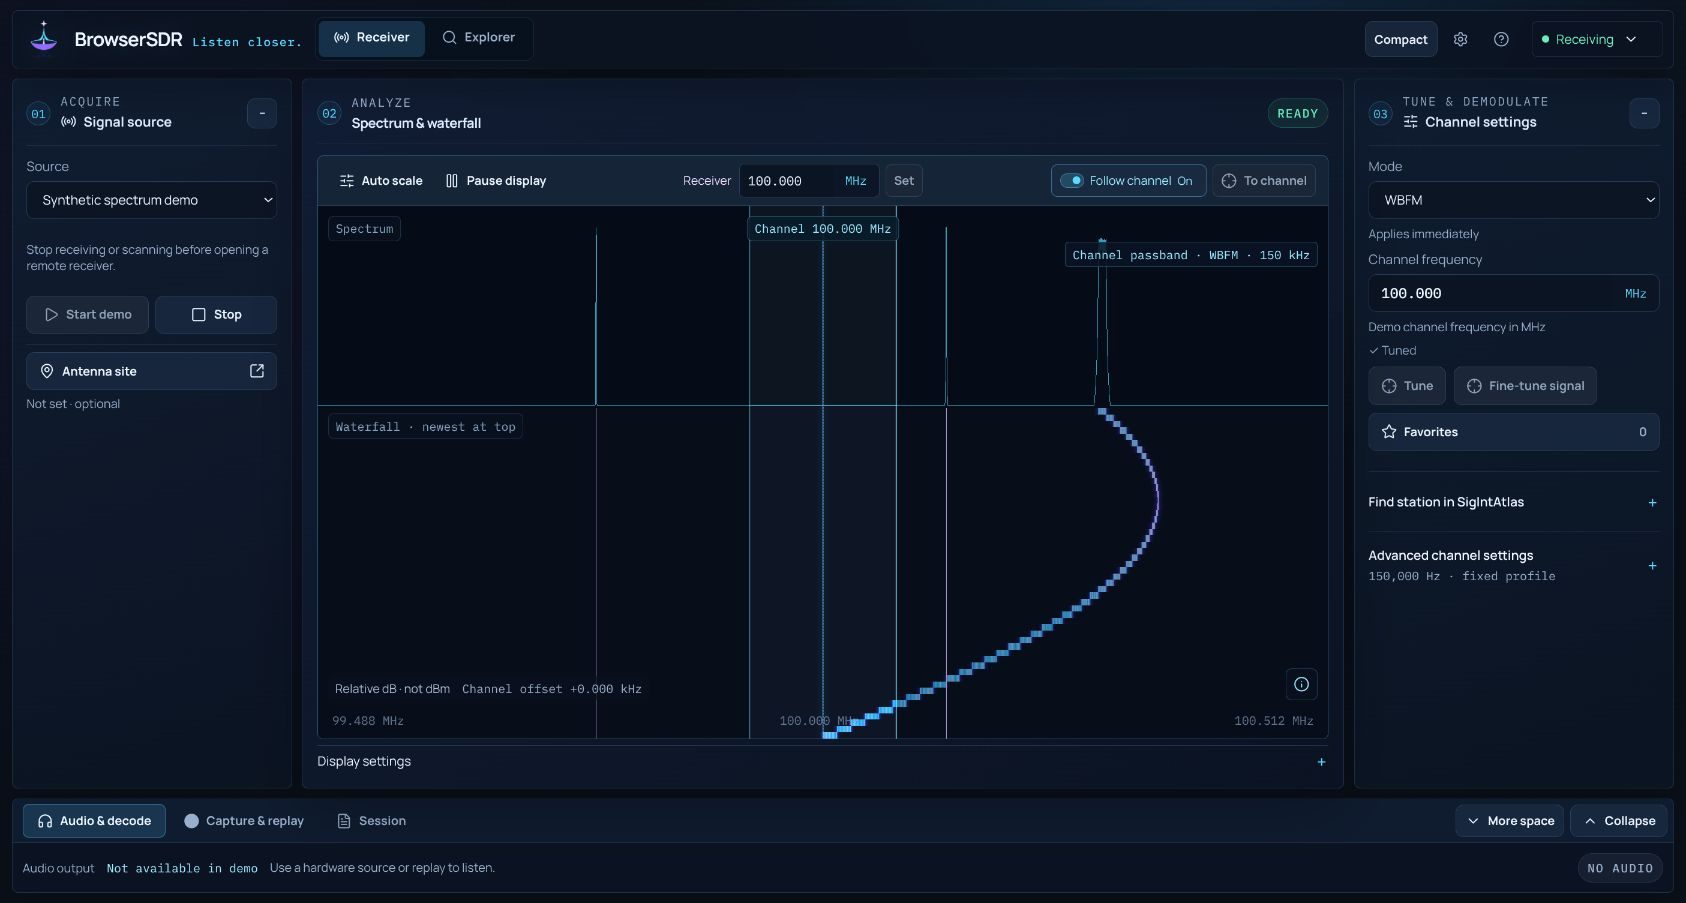
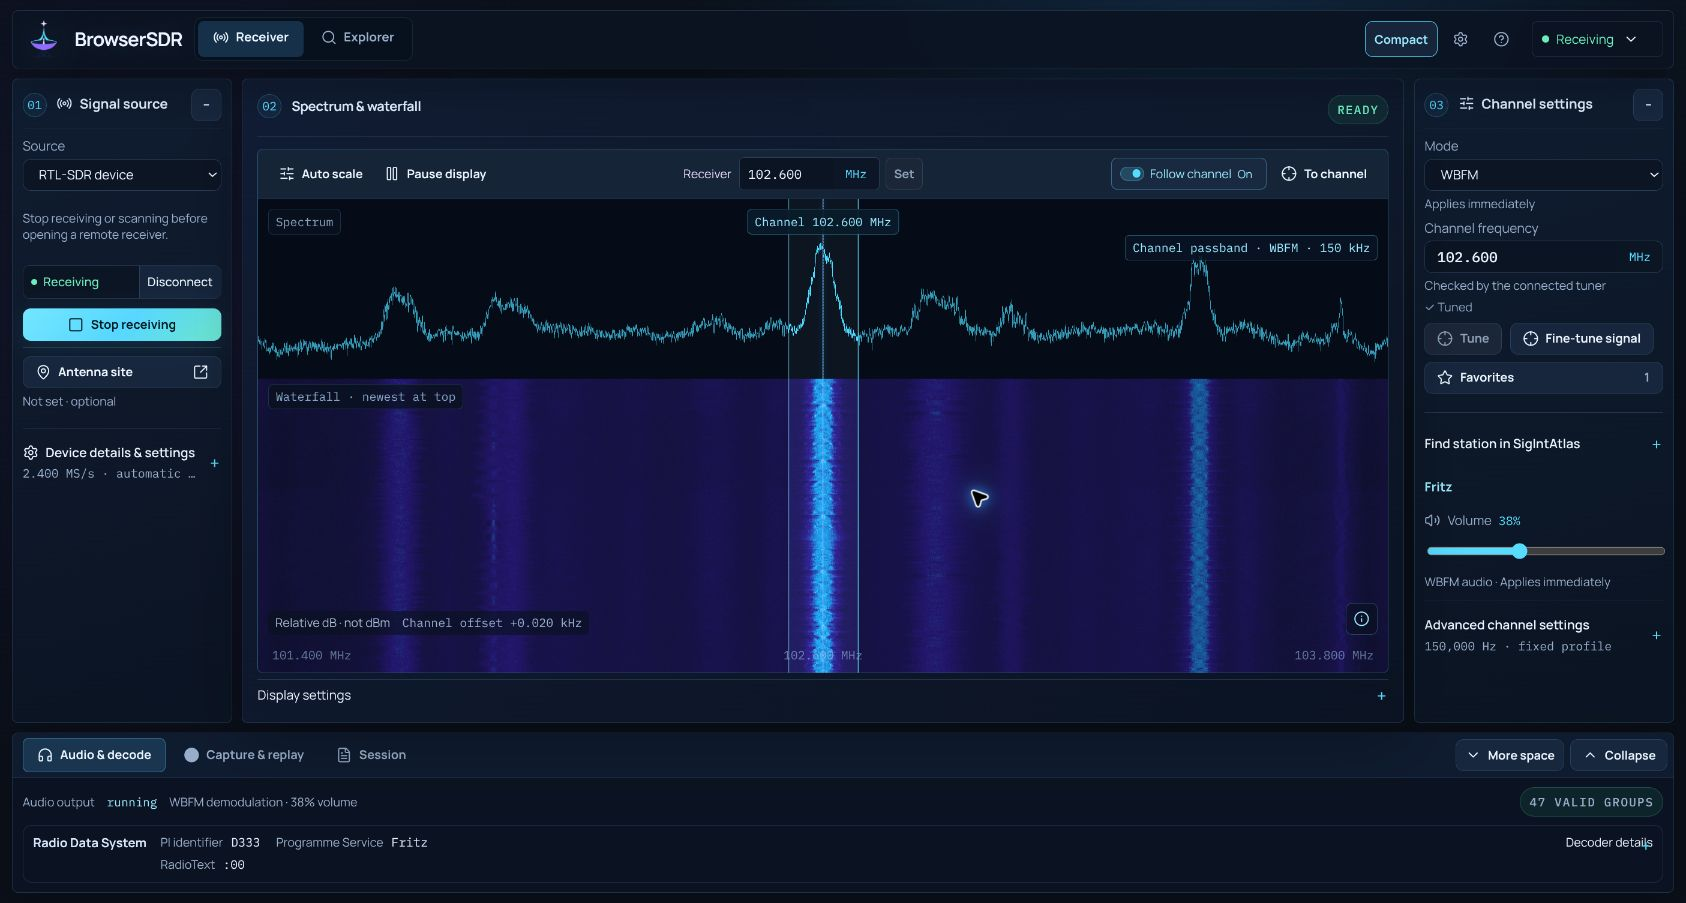
Show live BrowserSDR receiver in README

diff --git a/README.md b/README.md
@@ -4,7 +4,7 @@ Software-defined radio in your browser: live spectrum and waterfall, audio and d
 
 **Compatibility:** current desktop Chrome or Edge over HTTPS or localhost. Local receivers require WebUSB: RTL-SDR, HackRF Pro, bladeRF 2.0 Micro xA4 (xA5/xA9 experimental), or USRP B205-mini/B205mini-i. Remote OpenWebRX/KiwiSDR and a hardware-free demo are also available. WebGPU rendering has a Canvas2D fallback; hardware and decoder limitations are documented in the wiki.
 
-![BrowserSDR receiver with a synthetic spectrum and waterfall](assets/receiver.jpg)
+![BrowserSDR receiving WBFM with an RTL-SDR, showing the spectrum, waterfall and RDS station data](assets/receiver.jpg)
 
 [Open BrowserSDR](https://browsersdr.com) · [Wiki](https://github.com/cybearde/browsersdr/wiki) · [Getting started](https://github.com/cybearde/browsersdr/wiki/Getting-started) · [Build & test](https://github.com/cybearde/browsersdr/wiki/Development) · [Issues](https://github.com/cybearde/browsersdr/issues)
 
